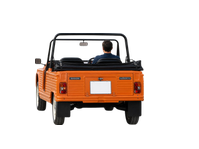
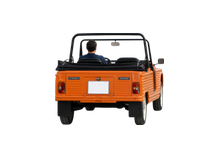
Réglages synchronisés via Google Drive ; pivot de la voiture dans le bon sens
- Agendas affichés et leurs noms, week-end et zone de vacances copiés dans
  « Route du temps/reglages.json » sur le Drive (autorisation drive.file
  existante) et repris sur les autres appareils ; le plus récent gagne.
- Virage à gauche : la voiture montre son flanc gauche (images inversées).

Claude-Session: https://claude.ai/code/session_018inYnbRa1fQGm7rxB4mfF1

Changed region(s): [[0.1508, 0.2148, 0.8442, 0.8591], [0.5729, 0.5101, 0.603, 0.5369], [0.392, 0.5101, 0.4221, 0.5369]]

diff --git a/index.html b/index.html
@@ -348,7 +348,7 @@ canvas#c{position:absolute;inset:0;width:100%;height:100%;touch-action:none;poin
     <div class="leg" id="legWeekend"><div class="legline"></div>Week-end</div>
     <div class="leg" id="legVac"><div class="legline" style="background:#ffd600;"></div><span id="legVacTxt">Vacances scolaires</span></div>
     <button id="legSync" class="leg" type="button" style="display:none;cursor:pointer;border:none;font-family:inherit;color:inherit;text-align:left;" title="Relancer la synchro Google Agenda"><i class="ti ti-refresh" style="font-size:12px;"></i><span id="legSyncTxt"></span></button>
-    <div id="appVersion" style="font-size:10px;color:#fff;text-shadow:0 1px 2px rgba(0,0,0,0.6);text-align:right;padding-right:4px;">Version 2026-10-14 20:35 · <a href="confidentialite.html" style="color:#fff">Confidentialité</a> · <a href="conditions.html" style="color:#fff">Conditions</a></div>
+    <div id="appVersion" style="font-size:10px;color:#fff;text-shadow:0 1px 2px rgba(0,0,0,0.6);text-align:right;padding-right:4px;">Version 2026-10-14 20:37 · <a href="confidentialite.html" style="color:#fff">Confidentialité</a> · <a href="conditions.html" style="color:#fff">Conditions</a></div>
   </div>
   <div id="zbx">
     <button class="zb" id="zi">+</button>
@@ -1114,8 +1114,8 @@ MEHARI_IMG.src='mehari-realistic.png';
 // sur la même ligne, arrière centré) affichées dans les virages : la voiture
 // pivote en montrant un peu son flanc.
 const MEHARI_TURN_IMGS={left:new Image(), right:new Image()};
-MEHARI_TURN_IMGS.left.src='mehari-turn-left.png';   // flanc droit visible
-MEHARI_TURN_IMGS.right.src='mehari-turn-right.png'; // flanc gauche visible
+MEHARI_TURN_IMGS.left.src='mehari-turn-left.png';   // virage à gauche : flanc gauche visible
+MEHARI_TURN_IMGS.right.src='mehari-turn-right.png'; // virage à droite : flanc droit visible
 let mehariTurnState=0; // -1 virage à gauche, 0 tout droit, 1 virage à droite
 
 // Vue conducteur (POV) : un bout du volant + du capot (voiture), ou du
@@ -3546,6 +3546,9 @@ async function liveSyncFromGoogleCalendar(force){
     const token = await getGoogleAccessToken();
     const profile = await fetchGoogleUserProfile(token);
     updateGoogleAuthUI(profile);
+    // Réglages enregistrés dans Drive depuis un autre appareil : on les reprend
+    // avant de choisir les agendas à lire.
+    await pullSettingsFromDrive();
     applySideNamesFromProfile(profile);
     showWelcome(false);
 
@@ -3731,6 +3734,7 @@ document.getElementById('calSave').addEventListener('click', () => {
     calListEl.querySelectorAll('input[type=text]').forEach(t=>{ if(t.value.trim()) names[t.dataset.id]=t.value.trim(); });
     saveCalendarConfig({show, names});
   }
+  markSettingsChanged();
   closeCalendarSettings();
   if(prevCfg === JSON.stringify(loadCalendarConfig())) return;
   const cached = readLiveSyncCache();
@@ -3771,6 +3775,74 @@ function updateSyncAge(){
 }
 setInterval(updateSyncAge, 30000);
 document.getElementById('legSync').addEventListener('click', ()=>liveSyncFromGoogleCalendar(true));
+
+// ===== Réglages partagés entre appareils (fichier dans Google Drive) =====
+// Agendas affichés et leurs noms, week-end, zone de vacances : gardés dans le
+// navigateur et copiés dans « Route du temps/reglages.json » sur le Drive du
+// compte connecté (autorisation drive.file déjà utilisée pour les photos),
+// pour retrouver les mêmes réglages sur un autre appareil. Le plus récent gagne.
+const SETTINGS_FILE_NAME='reglages.json', SETTINGS_TS_KEY='settingsUpdated_v1';
+function localSettingsTs(){ try{ return +localStorage.getItem(SETTINGS_TS_KEY)||0; }catch(e){ return 0; } }
+function settingsSnapshot(){
+  return { v:1, updated:localSettingsTs(), calendar:loadCalendarConfig(), showWeekend:showWeekend(), schoolZone:schoolZone() };
+}
+function applySettingsSnapshot(snap){
+  if(!snap || typeof snap!=='object') return;
+  if(snap.calendar) saveCalendarConfig(snap.calendar);
+  try{
+    if(typeof snap.showWeekend==='boolean') localStorage.setItem(SHOW_WEEKEND_KEY, snap.showWeekend?'1':'0');
+    localStorage.setItem(SETTINGS_TS_KEY, String(snap.updated||Date.now()));
+  }catch(e){}
+  applyWeekendLegend();
+  if(snap.schoolZone && snap.schoolZone!==schoolZone()){
+    try{ localStorage.setItem(SCHOOL_ZONE_KEY, snap.schoolZone); }catch(e){}
+    rebuildVacances();
+  }
+}
+// Appels Drive « silencieux » : sans autorisation Drive (ancien consentement),
+// on n'ouvre pas de fenêtre Google, on garde simplement les réglages locaux.
+async function driveFetchQuiet(url, opts){
+  const token = await getGoogleAccessToken();
+  const resp = await fetch(url, { ...opts, headers: { ...(opts && opts.headers), 'Authorization': 'Bearer ' + token } });
+  if(!resp.ok) throw new Error('Drive HTTP ' + resp.status);
+  return resp;
+}
+async function findSettingsFile(){
+  const resp = await driveFetchQuiet('https://www.googleapis.com/drive/v3/files?orderBy=modifiedTime desc&fields=files(id,parents)&q=' + encodeURIComponent("name='" + SETTINGS_FILE_NAME + "' and trashed=false"));
+  const data = await resp.json();
+  return (data.files && data.files[0]) ? data.files[0].id : null;
+}
+async function pullSettingsFromDrive(){
+  try{
+    const id = await findSettingsFile();
+    if(!id) return;
+    const snap = await (await driveFetchQuiet('https://www.googleapis.com/drive/v3/files/' + id + '?alt=media')).json();
+    if((snap.updated||0) > localSettingsTs()) applySettingsSnapshot(snap);
+  }catch(err){ console.warn('Réglages Drive non lus', err); }
+}
+let settingsPushTimer = null;
+function markSettingsChanged(){
+  try{ localStorage.setItem(SETTINGS_TS_KEY, String(Date.now())); }catch(e){}
+  clearTimeout(settingsPushTimer);
+  settingsPushTimer = setTimeout(pushSettingsToDrive, 800);
+}
+async function pushSettingsToDrive(){
+  if(!readLiveSyncCache()) return; // pas connecté
+  try{
+    const body = JSON.stringify(settingsSnapshot());
+    const id = await findSettingsFile();
+    if(id){
+      await driveFetchQuiet('https://www.googleapis.com/upload/drive/v3/files/' + id + '?uploadType=media', {
+        method: 'PATCH', headers: { 'Content-Type': 'application/json' }, body });
+    }else{
+      const folderId = await ensureDriveFolder();
+      const form = new FormData();
+      form.append('metadata', new Blob([JSON.stringify({ name: SETTINGS_FILE_NAME, parents: [folderId], mimeType: 'application/json' })], { type: 'application/json' }));
+      form.append('file', new Blob([body], { type: 'application/json' }));
+      await driveFetchQuiet('https://www.googleapis.com/upload/drive/v3/files?uploadType=multipart&fields=id', { method: 'POST', body: form });
+    }
+  }catch(err){ console.warn('Réglages Drive non enregistrés', err); }
+}
 
 // ===== Vacances scolaires par zone =====
 const SCHOOL_ZONE_KEY='schoolZone_v1', SCHOOL_CAL_CACHE_KEY='schoolCalendar_v1';
